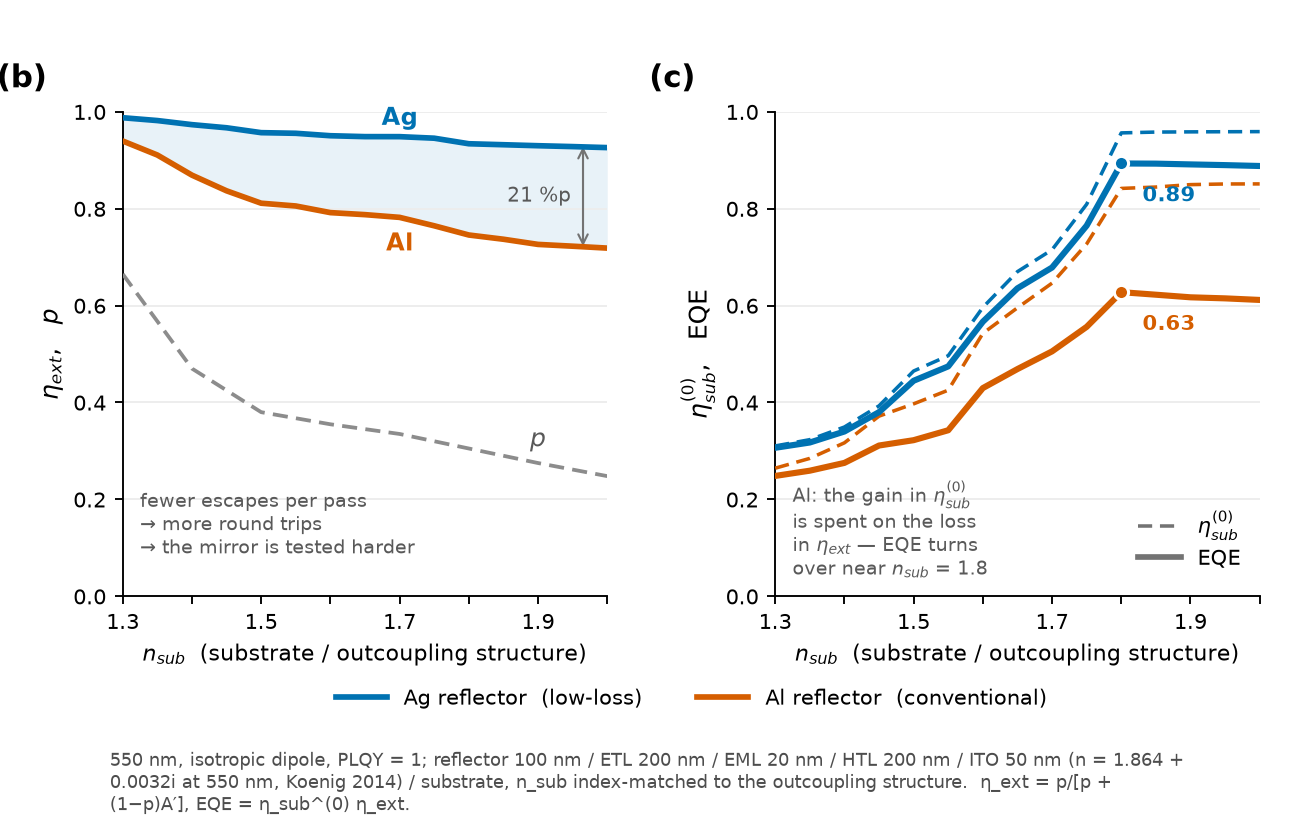
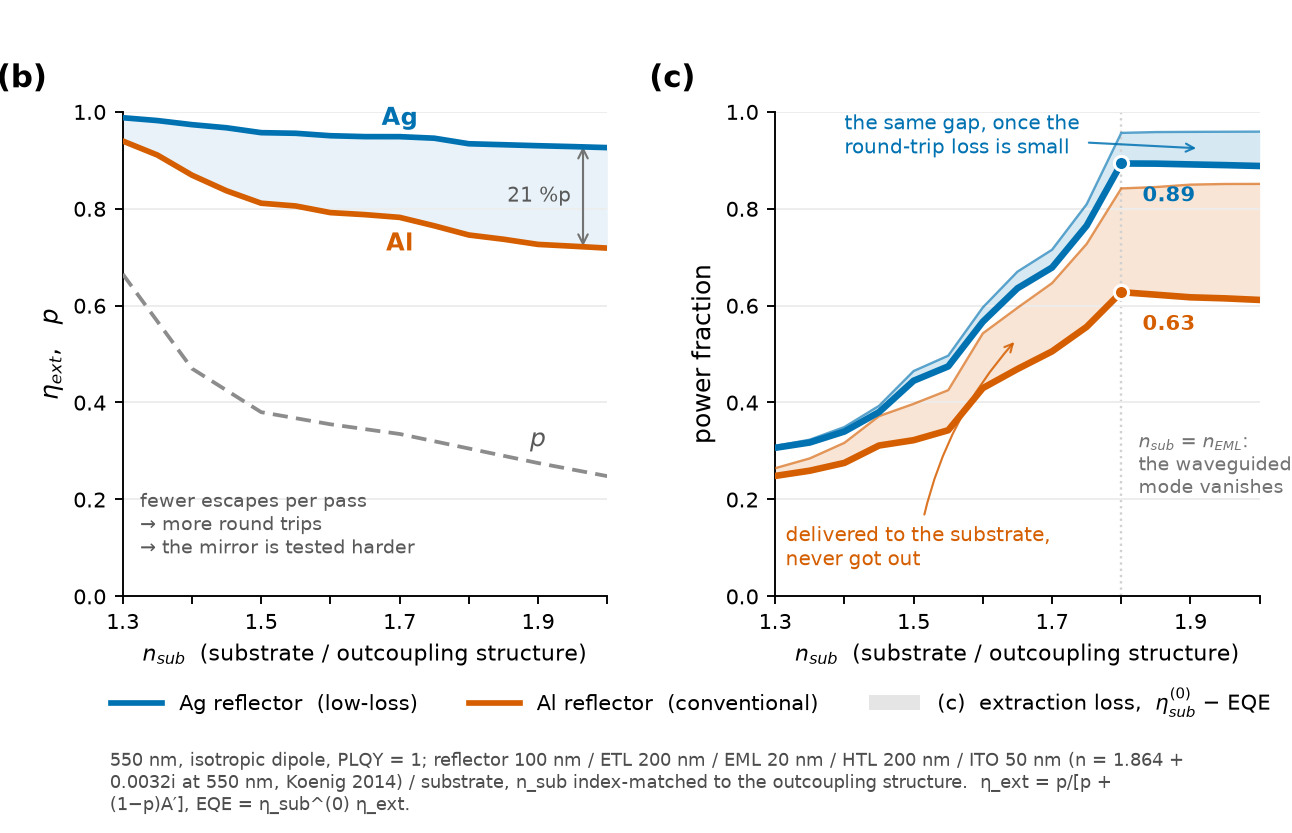
Redraw Fig. 2(c) with the extraction loss as an area
The four-curve version needed two line styles and two colours at once,
and with the Koenig constants the Ag pair nearly touches above
n_sub = 1.8. The panel now shows EQE as the bold curve and fills the gap
up to eta_sub, which is what reached the substrate and never escaped;
the two bands never overlap, so a thin blue sliver against a thick
orange band carries the comparison directly. The waveguide cutoff at
n_sub = n_EML is labelled so the step reads as physics.

Three arrangements are kept side by side in fig2c_variants.png.

Claude-Session: https://claude.ai/code/session_01A1WQ3WGcJw8tT3QK2n57xo

diff --git a/figures/fig2b_mock/plot_fig2c_variants.py b/figures/fig2b_mock/plot_fig2c_variants.py
@@ -1,0 +1,90 @@
+"""Three readings of Fig. 2(c), same data (fig2b_curves_konig.csv).
+C1 the current four-curve panel, C2 the gap drawn as an area, C3 one reference curve for
+the substrate-delivered power and the two EQE curves in colour."""
+import numpy as np, matplotlib
+matplotlib.use('Agg')
+import matplotlib.pyplot as plt
+from matplotlib.lines import Line2D
+from matplotlib.patches import Patch
+import textwrap
+
+D = np.genfromtxt('fig2b_curves_konig.csv', delimiter=',', names=True)
+n = D['n_sub']
+sAl, sAg, qAl, qAg = D['eta_sub_Al'], D['eta_sub_Ag'], D['EQE_Al'], D['EQE_Ag']
+C_AL, C_AG, GREY = '#D55E00', '#0072B2', '#8C8C8C'
+DASH = (0, (4, 2.2))
+
+fig, axs = plt.subplots(1, 3, figsize=(13.2, 5.0))
+fig.subplots_adjust(left=0.055, right=0.99, top=0.84, bottom=0.30, wspace=0.22)
+for ax, tag in zip(axs, ('C1   as drawn now', 'C2   the gap as an area', 'C3   one reference curve')):
+    ax.set_xlim(1.3, 2.0); ax.set_ylim(0, 1.0)
+    ax.set_xticks([1.3, 1.4, 1.5, 1.6, 1.7, 1.8, 1.9, 2.0])
+    ax.set_xticklabels(['1.3', '', '1.5', '', '1.7', '', '1.9', ''])
+    ax.set_xlabel('$n_{sub}$', fontsize=10)
+    ax.grid(axis='y', color='0.93', lw=0.8)
+    ax.tick_params(labelsize=9)
+    for s in ('top', 'right'): ax.spines[s].set_visible(False)
+    ax.set_box_aspect(1.0)
+    ax.set_title(tag, fontsize=11, loc='left', color='0.25')
+
+def peak(ax, q, c, dy=-16):
+    i = int(np.argmax(q))
+    ax.plot(n[i], q[i], 'o', ms=6, mfc=c, mec='w', mew=1.3, zorder=6)
+    ax.annotate(f'{q[i]:.2f}', (n[i], q[i]), xytext=(9, dy), textcoords='offset points',
+                fontsize=9, fontweight='bold', color=c)
+
+# --- C1 ---------------------------------------------------------------------
+a = axs[0]
+a.plot(n, sAg, color=C_AG, lw=1.5, ls=DASH); a.plot(n, sAl, color=C_AL, lw=1.5, ls=DASH)
+a.plot(n, qAg, color=C_AG, lw=2.6); a.plot(n, qAl, color=C_AL, lw=2.6)
+peak(a, qAg, C_AG); peak(a, qAl, C_AL)
+a.set_ylabel('$\\eta_{sub}^{(0)}$,   EQE', fontsize=10.5)
+a.legend(handles=[Line2D([], [], color='0.45', lw=1.5, ls=DASH, label='$\\eta_{sub}^{(0)}$'),
+                  Line2D([], [], color='0.45', lw=2.4, label='EQE')],
+         loc='lower right', bbox_to_anchor=(1.0, 0.015), fontsize=9, frameon=False, handlelength=2.0)
+
+# --- C2 ---------------------------------------------------------------------
+b = axs[1]
+b.fill_between(n, qAl, sAl, color=C_AL, alpha=0.16, lw=0)
+b.fill_between(n, qAg, sAg, color=C_AG, alpha=0.16, lw=0)
+b.plot(n, sAl, color=C_AL, lw=1.0, alpha=0.65); b.plot(n, sAg, color=C_AG, lw=1.0, alpha=0.65)
+b.plot(n, qAl, color=C_AL, lw=2.8); b.plot(n, qAg, color=C_AG, lw=2.8)
+peak(b, qAg, C_AG); peak(b, qAl, C_AL)
+b.set_ylabel('power fraction', fontsize=10.5)
+b.annotate('delivered to the substrate,\nnever got out', (1.66, 0.5*(sAl[7]+qAl[7])),
+           xytext=(-4, -72), textcoords='offset points', ha='center', fontsize=8.6, color=C_AL,
+           arrowprops=dict(arrowstyle='->', color=C_AL, lw=0.9, alpha=0.8))
+b.annotate('', (1.95, 0.5*(sAg[-2]+qAg[-2])), xytext=(-34, 26), textcoords='offset points',
+           arrowprops=dict(arrowstyle='->', color=C_AG, lw=0.9, alpha=0.8))
+b.text(1.905, 0.988, 'the same gap,\nwith a low-loss stack', ha='right', va='top',
+       fontsize=8.6, color=C_AG)
+
+# --- C3 ---------------------------------------------------------------------
+c = axs[2]
+c.plot(n, sAg, color=GREY, lw=1.8, ls=DASH, zorder=3)
+c.plot(n, qAg, color=C_AG, lw=2.8); c.plot(n, qAl, color=C_AL, lw=2.8)
+peak(c, qAg, C_AG); peak(c, qAl, C_AL)
+c.set_ylabel('power fraction', fontsize=10.5)
+c.annotate('$\\eta_{sub}^{(0)}$  delivered\nto the substrate', (1.63, sAg[6]), xytext=(4, 14),
+           textcoords='offset points', fontsize=8.8, color='0.35',
+           arrowprops=dict(arrowstyle='->', color='0.6', lw=0.9))
+
+for ax in axs:
+    ax.axvline(1.8, color='0.8', lw=1.0, ls=':', zorder=1)
+axs[1].annotate('$n_{sub}$ = $n_{EML}$:\nthe waveguide\nmode vanishes', (1.8, 0.035),
+                xytext=(-8, 0), textcoords='offset points', ha='right', va='bottom',
+                fontsize=8.2, color='0.45')
+
+fig.legend(handles=[Line2D([], [], color=C_AG, lw=2.8, label='Ag reflector  (low-loss)'),
+                    Line2D([], [], color=C_AL, lw=2.8, label='Al reflector  (conventional)'),
+                    Patch(facecolor='0.6', alpha=0.25, label='extraction loss,  $\\eta_{sub}^{(0)}$ − EQE  (C2)')],
+           loc='lower center', bbox_to_anchor=(0.52, 0.145), ncol=3, fontsize=9.5, frameon=False,
+           handlelength=2.4, columnspacing=2.4)
+foot = ('Same data in all three. C1 asks the reader to hold two line styles and two colours at once, and above n_sub = 1.8 the Ag pair nearly touches (0.96 against 0.89).  '
+        'C2 keeps both quantities but draws the difference — what reached the substrate and never escaped — as an area; the two bands never overlap, so the thin blue sliver against '
+        'the thick orange band is the message.  C3 drops the Al η_sub curve and keeps one grey reference, which is the cleanest read but mixes two effects in the orange gap, '
+        'since the Al stack also absorbs before the light reaches the substrate (η_sub 0.84 against 0.96 at n_sub = 1.8).')
+fig.text(0.055, 0.02, '\n'.join(textwrap.wrap(foot, 168)), fontsize=8.3, va='bottom', ha='left', color='0.3')
+fig.suptitle('Fig. 2(c) — three arrangements of the same numbers', x=0.055, ha='left', fontsize=12.5, y=0.955)
+fig.savefig('fig2c_variants.png', dpi=160)
+print('saved')

diff --git a/figures/fig2b_mock/plot_fig2bc.py b/figures/fig2b_mock/plot_fig2bc.py
@@ -1,11 +1,12 @@
 """Fig. 2(b) and 2(c) as two small square panels, sharing the substrate-index axis.
 (b) the cost:   p falls with n_sub, so the two eta_ext curves peel apart.
-(c) the result: eta_sub keeps rising, but the product turns over for Al and not for Ag.
+(c) the result: eta_sub keeps rising; the shaded gap to EQE is what never escapes.
 Data: fig2b_curves.csv."""
 import numpy as np, matplotlib
 matplotlib.use('Agg')
 import matplotlib.pyplot as plt
 from matplotlib.lines import Line2D
+from matplotlib.patches import Patch
 import textwrap, os
 
 D = np.genfromtxt(os.environ.get('DATA', 'fig2b_curves_konig.csv'), delimiter=',', names=True)
@@ -50,28 +51,39 @@ axb.annotate('$p$', (1.90, p[12]), xytext=(0, 7), textcoords='offset points',
 axb.text(1.325, 0.075, 'fewer escapes per pass\n→ more round trips\n→ the mirror is tested harder',
          fontsize=8.2, color='0.35', va='bottom')
 
-# ---- (c) the result: the payoff and the turnover ----------------------------
-axc.plot(n, sAg, color=C_AG, lw=1.5, ls=DASH, zorder=3)
-axc.plot(n, sAl, color=C_AL, lw=1.5, ls=DASH, zorder=3)
-axc.plot(n, qAg, color=C_AG, lw=2.6, zorder=4, solid_capstyle='round')
-axc.plot(n, qAl, color=C_AL, lw=2.6, zorder=4, solid_capstyle='round')
-axc.set_ylabel('$\\eta_{sub}^{(0)}$,   EQE', fontsize=10.5)
-for q, c, dy in ((qAg, C_AG, -16), (qAl, C_AL, -16)):
+# ---- (c) the result: the payoff, and what is lost on the way out -------------
+axc.fill_between(n, qAl, sAl, color=C_AL, alpha=0.16, lw=0)
+axc.fill_between(n, qAg, sAg, color=C_AG, alpha=0.16, lw=0)
+axc.plot(n, sAl, color=C_AL, lw=1.0, alpha=0.65, zorder=3)
+axc.plot(n, sAg, color=C_AG, lw=1.0, alpha=0.65, zorder=3)
+axc.plot(n, qAl, color=C_AL, lw=2.8, zorder=4, solid_capstyle='round')
+axc.plot(n, qAg, color=C_AG, lw=2.8, zorder=4, solid_capstyle='round')
+axc.set_ylabel('power fraction', fontsize=10.5)
+for q, c in ((qAg, C_AG), (qAl, C_AL)):
     i = int(np.argmax(q))
     axc.plot(n[i], q[i], 'o', ms=6, mfc=c, mec='w', mew=1.3, zorder=5)
-    axc.annotate(f'{q[i]:.2f}', (n[i], q[i]), xytext=(9, dy), textcoords='offset points',
+    axc.annotate(f'{q[i]:.2f}', (n[i], q[i]), xytext=(9, -16), textcoords='offset points',
                  fontsize=9, fontweight='bold', color=c, ha='left')
-axc.legend(handles=[Line2D([], [], color='0.45', lw=1.5, ls=DASH, label='$\\eta_{sub}^{(0)}$'),
-                    Line2D([], [], color='0.45', lw=2.4, label='EQE')],
-           loc='lower right', bbox_to_anchor=(1.0, 0.015), fontsize=9, frameon=False,
-           handlelength=2.0, labelspacing=0.35)
-axc.text(1.325, 0.03, 'Al: the gain in $\\eta_{sub}^{(0)}$\nis spent on the loss\nin $\\eta_{ext}$ — EQE turns\nover near $n_{sub}$ = 1.8',
-         fontsize=8.2, color='0.35', va='bottom')
+j = 7   # n_sub = 1.65
+axc.annotate('delivered to the substrate,\nnever got out', (n[j], 0.5*(sAl[j] + qAl[j])),
+             xytext=(1.315, 0.05), textcoords='data', ha='left', va='bottom',
+             fontsize=8.5, color=C_AL,
+             arrowprops=dict(arrowstyle='->', color=C_AL, lw=0.9, alpha=0.85,
+                             connectionstyle='arc3,rad=-0.15'))
+axc.annotate('the same gap, once the\nround-trip loss is small', (1.915, 0.5*(sAg[-2] + qAg[-2])),
+             xytext=(1.40, 0.90), textcoords='data', ha='left', va='bottom',
+             fontsize=8.5, color=C_AG,
+             arrowprops=dict(arrowstyle='->', color=C_AG, lw=0.9, alpha=0.85))
+axc.axvline(1.8, color='0.82', lw=1.0, ls=':', zorder=1)
+axc.text(1.825, 0.20, '$n_{sub}$ = $n_{EML}$:\nthe waveguided\nmode vanishes',
+         fontsize=8.0, color='0.45', va='bottom', ha='left')
 
 fig.legend(handles=[Line2D([], [], color=C_AG, lw=2.4, label='Ag reflector  (low-loss)'),
-                    Line2D([], [], color=C_AL, lw=2.4, label='Al reflector  (conventional)')],
-           loc='lower center', bbox_to_anchor=(0.535, 0.125), ncol=2, fontsize=9, frameon=False,
-           handlelength=2.4, columnspacing=2.6)
+                    Line2D([], [], color=C_AL, lw=2.4, label='Al reflector  (conventional)'),
+                    Patch(facecolor='0.6', alpha=0.25,
+                          label='(c)  extraction loss,  $\\eta_{sub}^{(0)}$ − EQE')],
+           loc='lower center', bbox_to_anchor=(0.535, 0.115), ncol=3, fontsize=9, frameon=False,
+           handlelength=2.4, columnspacing=2.4)
 foot = ('550 nm, isotropic dipole, PLQY = 1; reflector 100 nm / ETL 200 nm / EML 20 nm / HTL 200 nm / ITO 50 nm (n = 1.864 + 0.0032i at 550 nm, Koenig 2014) / substrate, '
         'n_sub index-matched to the outcoupling structure.  η_ext = p/[p + (1−p)A′], EQE = η_sub^(0) η_ext.')
 fig.text(0.085, 0.02, '\n'.join(textwrap.wrap(foot, 118)), fontsize=7.8, va='bottom', ha='left', color='0.3')

diff --git a/figures/fig2b_mock/README.md b/figures/fig2b_mock/README.md
@@ -67,3 +67,21 @@ supplied the tabulation: `nsub_{al,ag}_konig.csv`, assembled into `fig2b_curves_
 which is what the panels and the workbook now use. The earlier n = 1.9 + 0.02i run is kept as
 `nsub_{al,ag}.csv` / `fig2b_curves.csv`; `DATA=fig2b_curves.csv python3 plot_fig2bc.py`
 redraws it.
+
+## Fig. 2(c) layout
+
+`fig2c_variants.png` (`plot_fig2c_variants.py`) compares three readings of the same numbers.
+The four-curve version asks the reader to hold two line styles and two colours at once, and
+with the Koenig constants the Ag pair nearly touches above n_sub = 1.8 (0.96 against 0.89).
+
+The panel now drawn in `fig2bc_squares.png` draws the difference instead: EQE as the bold
+curve, η_sub^(0) as a thin line of the same colour, and the gap between them — what reached
+the substrate and never escaped — as a filled band. The two bands never overlap anywhere in
+the range (the Ag EQE curve stays above the Al η_sub curve throughout), so the thin blue
+sliver against the thick orange band carries the message without any legend lookup. The step
+at n_sub = 1.8 is labelled, since it is the waveguide cutoff at n_sub = n_EML and otherwise
+reads as an artefact.
+
+A third variant keeps one grey reference curve and drops the Al η_sub. It is the cleanest
+read but mixes two effects in the orange gap, since the Al stack also absorbs before the light
+reaches the substrate (η_sub 0.84 against 0.96 at n_sub = 1.8), so it was not used.
